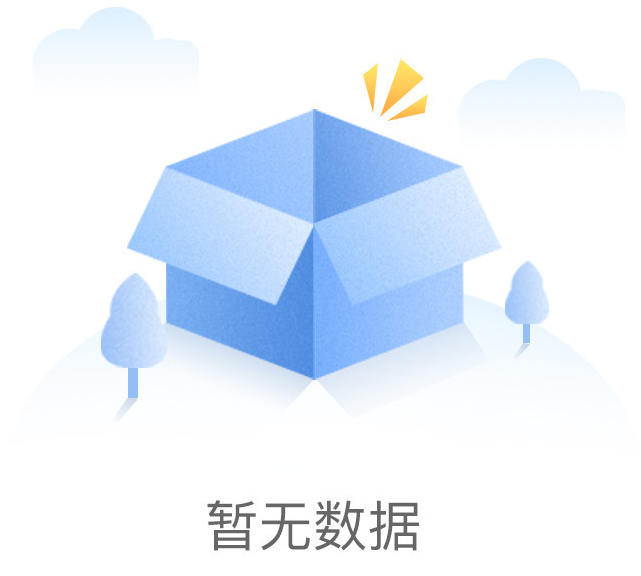
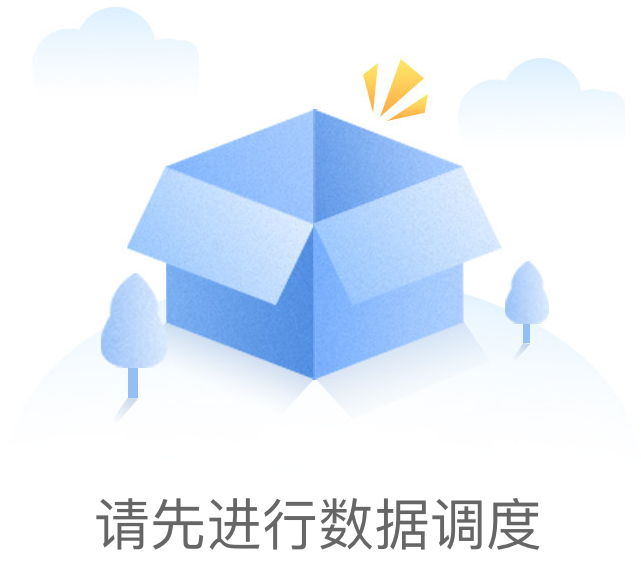
#93 #99 #82 #83 #84

Changed region(s): [[0.156, 0.8438, 0.8424, 0.9688]]

diff --git a/ioc-datatag-ui/src/components/ModeleEdit/EditTable.vue b/ioc-datatag-ui/src/components/ModeleEdit/EditTable.vue
@@ -11,7 +11,7 @@
               </span>
               <el-dropdown-menu slot="dropdown">
                 <el-dropdown-item command="0" icon="el-icon-document-copy">克隆字段</el-dropdown-item>
-                <el-dropdown-item command="1" icon="el-icon-price-tag">字段打标</el-dropdown-item>
+                <el-dropdown-item command="1" icon="el-icon-price-tag">数据打标</el-dropdown-item>
                 <el-dropdown-item command="2" icon="el-icon-close">清除字段</el-dropdown-item>
               </el-dropdown-menu>
             </el-dropdown>
@@ -48,26 +48,44 @@
             <el-col :span="11">
               <div class="allTree">
                 <div class="sel">
-                  <el-input style="width: 210px"
+                  <el-input style="width: 215px"
                             size="small"
                             placeholder="请输入内容"
                             v-model="ruleForm.tagLev">
                     <i slot="suffix" class="el-input__icon el-icon-arrow-down" @click="showTree()"></i>
                   </el-input>
                   <div class="treeBoder" v-show="showLevTree">
+                    <el-input size="small" v-model="ruleForm.tag" placeholder="请输入关键字查询" style="margin-bottom:10px;"/>
                     <el-tree
-                      class="filter-tree"
                       :data="treeLevdata"
                       :props="defaultProps"
+                      node-key="id"
+                      ref="treeForm"
+                      show-checkbox
                       default-expand-all
+                      check-strictly
                       :filter-node-method="filterNode"
-                      :expand-on-click-node="false"
-                      @node-click="clickTreeItem"
-                      ref="tree">
-                      <span class="custom-tree-node" slot-scope="{ node, data }">
-                        <span> <el-radio :disabled="data.leaf" v-model="radio" :label="data">{{data.tagName}}</el-radio></span>
+                      @check-change="handleClick"
+                      @node-click="nodeClick">
+                      <span class="slot-t-node" slot-scope="{ node, data }">
+                      <i :class="{ 'fa fa-folder': !node.expanded, 'fa fa-folder-open':node.expanded}"
+                         style="color: #fcd568;"/>
+                      <span>{{ node.label }}</span>
                       </span>
                     </el-tree>
+                    <!--<el-tree-->
+                    <!--class="filter-tree"-->
+                    <!--:data="treeLevdata"-->
+                    <!--:props="defaultProps"-->
+                    <!--default-expand-all-->
+                    <!--:filter-node-method="filterNode"-->
+                    <!--@node-click="clickTreeItem"-->
+                    <!--ref="tree">-->
+                    <!--<span class="custom-tree-node" slot-scope="{ node, data }">-->
+                    <!--<span> <el-radio :disabled="data.leaf" v-model="radio" :label="data">{{data.tagName}}</el-radio></span>-->
+                    <!--</span>-->
+                    <!--</el-tree>-->
+
                   </div>
                 </div>
               </div>
@@ -298,14 +316,14 @@
           this.countSymbolList = newValue
         }
       },
-      'ruleForm.tagLev': {
+      'ruleForm.tag': {
         handler: function (newValue, oldValue) {
-          this.$refs.tree.filter(newValue)
+          this.$refs.treeForm.filter(newValue)
         }
       },
       'tagSetList': {
         handler: function (newValue, oldValue) {
-          this.tagSetList = newValue
+          // this.tagSetList = newValue
         },
         deep: true
       },
@@ -319,7 +337,7 @@
       'theadData': {
         handler: function (newValue, oldValue) {
         }
-      }
+      },
     },
     created() {
       //获取标签组
@@ -348,7 +366,6 @@
       },
       //点击分页确认
       goPage() {
-
       },
       //深度克隆
       deepClone(obj) {
@@ -364,16 +381,40 @@
         return newObj
       },
       //选择标签层拿树
-      clickTreeItem(data, node) {
-        this.childrenNode = data.childrenNode
-        this.tagSetList = []
-        this.childrenNode.forEach((item, index) => {
-          if (item.leafParent === false) {
-            this.tagSetList.push(item)
+      // clickTreeItem(data, node) {
+      //   console.log('clickTreeItem', data)
+      //   this.childrenNode = data.childrenNode
+      //   console.log('123', data.childrenNode)
+      //   console.log('345', this.childrenNode)
+      //   this.tagSetList = []
+      //   this.childrenNode.forEach((item, index) => {
+      //     if (item.leafParent === false) {
+      //       this.tagSetList.push(item)
+      //     }
+      //   })
+      //   this.ruleForm.tagLev = data.tagName
+      //   this.showLevTree = false
+      // },
+      nodeClick(data, checked, node) {
+      },
+      handleClick(data, checked, node) {
+        if (checked === true) {
+          this.tagSetList = []
+          this.checkedId = data.id;
+          this.$refs.treeForm.setCheckedKeys([data.id]);
+          if (data.childrenNode) {
+            data.childrenNode.map(item => {
+              if (item.leafParent == false) {
+                this.tagSetList.push(item)
+              }
+            })
           }
-        })
-        this.ruleForm.tagLev = data.tagName
-        this.showLevTree = false
+          this.ruleForm.tagLev = data.tagName
+        } else {
+          if (this.checkedId == data.id) {
+            this.$refs.treeForm.setCheckedKeys([data.id]);
+          }
+        }
       },
       //选择连接符号
       chooseConnectSymbo(item) {
@@ -511,8 +552,8 @@
       },
       ///过滤树
       filterNode(value, data) {
-        if (!value) return true
-        return data.tagName.indexOf(value) !== -1
+        if (!value) return true;
+        return data.tagName.indexOf(value) !== -1;
       },
       colSetTags(data) {
         this.setTagsDialog = true
@@ -619,7 +660,7 @@
             size: 200
           }
           const data = await getMyTagGroupData(params)
-          //console.log(data)
+          console.log('选择标签组', data.rows)
           this.tagTeamList = data.rows
         } catch (e) {
 
@@ -629,6 +670,7 @@
       async getTagLevList(id) {
         try {
           const data = await getTagLevData(id)
+          console.log('选择标签组', data.childrenNode)
           this.treeLevdata = data.childrenNode
         } catch (e) {
 
@@ -750,6 +792,8 @@
     background-color: #fff;
     position: absolute;
     z-index: 55;
+    width: 215px;
+    padding-top: 3px;
   }
 
   .lookContent {
@@ -905,10 +949,12 @@
 
     }
   }
+
   .table-box {
     overflow: auto;
   }
-  .btnMargin{
+
+  .btnMargin {
     margin-left: 5px;
   }
 </style>

diff --git a/ioc-datatag-ui/src/views/taggedImage/marking.vue b/ioc-datatag-ui/src/views/taggedImage/marking.vue
@@ -55,7 +55,7 @@
           <el-col :span="11">
             <div class="allTree">
               <div class="sel">
-                <el-input style="width: 210px"
+                <el-input style="width: 215px"
                           size="small"
                           placeholder="请输入内容"
                           v-model="ruleForm.tagLev">
@@ -68,7 +68,6 @@
                     :props="defaultProps"
                     default-expand-all
                     :filter-node-method="filterNode"
-                    :expand-on-click-node="false"
                     @node-click="clickTreeItem"
                     ref="tree">
                       <span class="custom-tree-node" slot-scope="{ node, data }">
@@ -620,8 +619,10 @@
       },
       // 标签层数据
       async getTagLevList(id) {
+        console.log('4444444')
         try {
           const data = await getTagLevData(id)
+          console.log('标签层数据',data.childrenNode)
             data.childrenNode.forEach(item =>{
               if(item.leaf == true){
                 console.log('9')
@@ -831,7 +832,7 @@
 
   /**/
   .sel {
-    width: 215px;
+    /*width: 215px;*/
     height: 32px;
   }
 

diff --git a/ioc-datatag-ui/src/views/taggedImage/ImageDetail.vue b/ioc-datatag-ui/src/views/taggedImage/ImageDetail.vue
@@ -29,7 +29,7 @@
               </template>
             </el-table-column>
             <el-table-column :label="item" v-for="(item,index) in theadData" :key="index"
-                             :prop="item"></el-table-column>
+                             :prop="item" min-width="300"></el-table-column>
           </el-table>
           <element-pagination :pageSize="size" :total="totalnum" @handleCurrentChange="handleCurrentChange"
                               @sureClick="goPage"></element-pagination>
@@ -108,7 +108,7 @@
             this.ztableShowList = []
             this.theadData = []
             this.doFalse = false
-            this.$message.error('请先进行数据调度');
+            // this.$message.error('请先进行数据调度');
           }
 
           this.totalnum = resList.data.result.totalElements
@@ -124,10 +124,8 @@
       },
       // 查看画像
       async lookImage(row) {
-        console.log('hhh',row)
-        console.log('11',this.pKey)
         const obj = row
-        console.log('44',row[this.pKey])
+        // console.log('44',row[this.pKey])
         this.$router.push({
           path: '/lookImagedetail',
           query: {

diff --git a/ioc-datatag-ui/src/router/index.js b/ioc-datatag-ui/src/router/index.js
@@ -149,6 +149,6 @@ export default new Router({
       name: 'lookImagedetail',
       meta: {title: '查看画像'},
       component: () => import('@/components/image/lookImagedetail.vue')
-    },
+    }
   ]
 })
